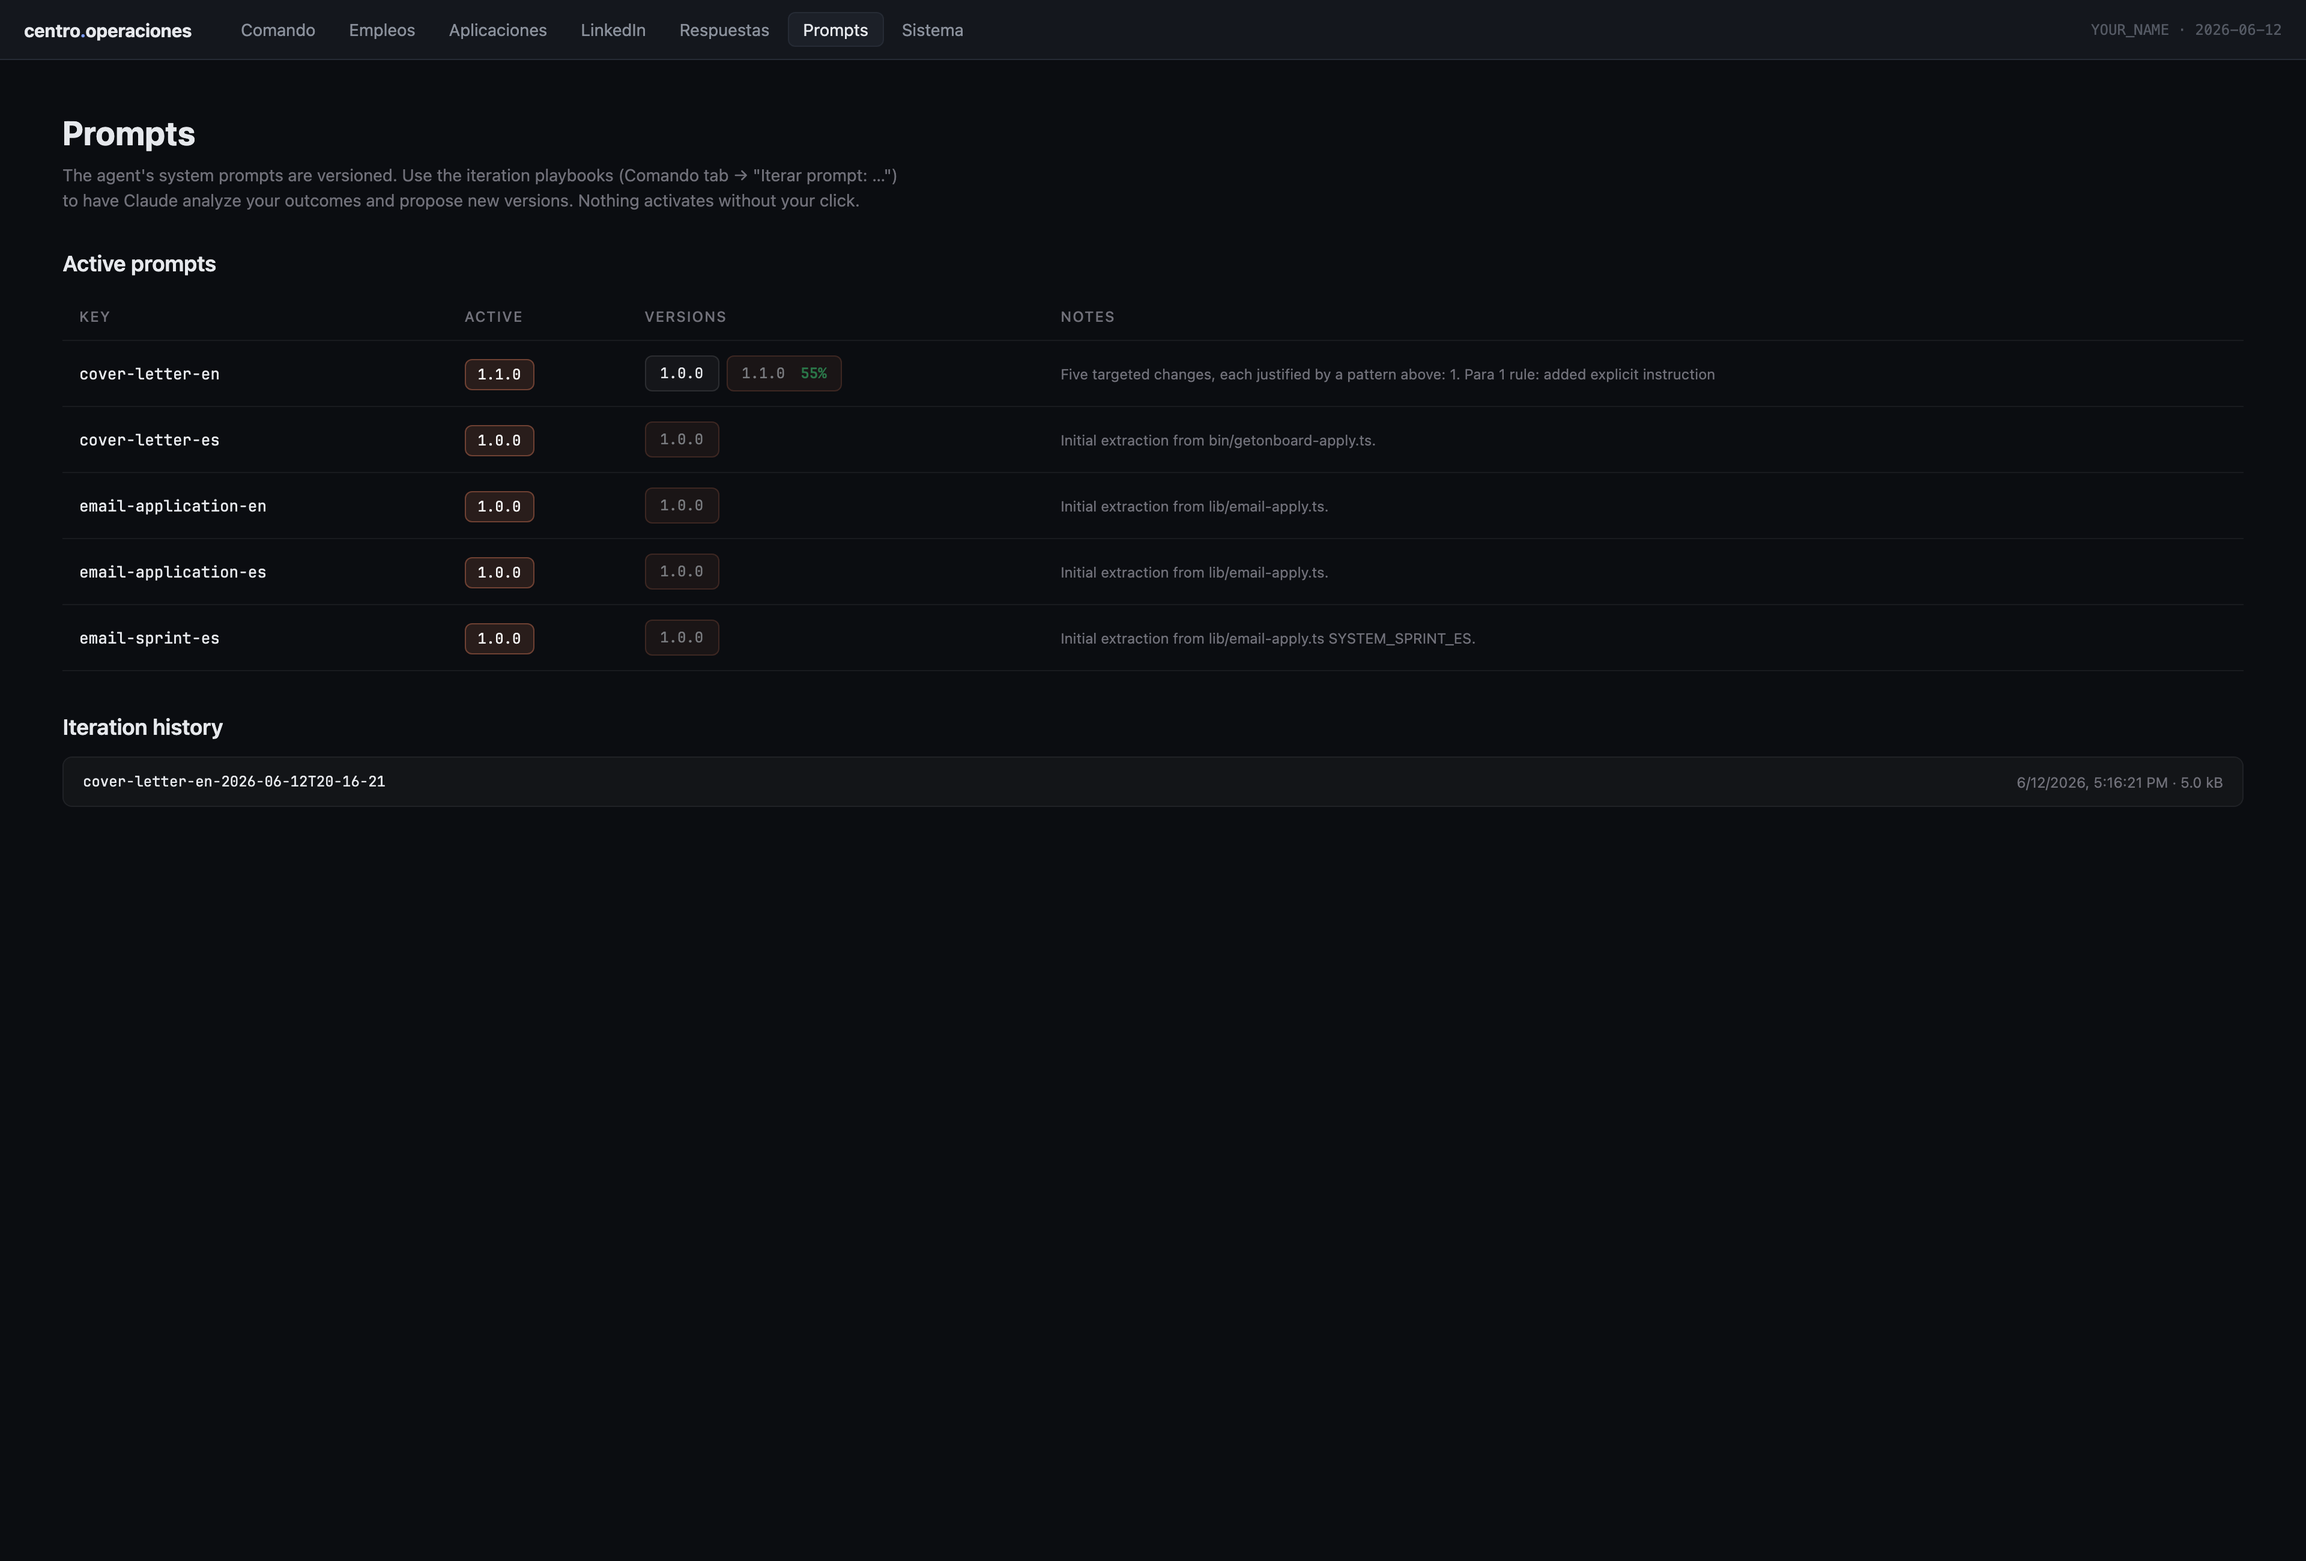
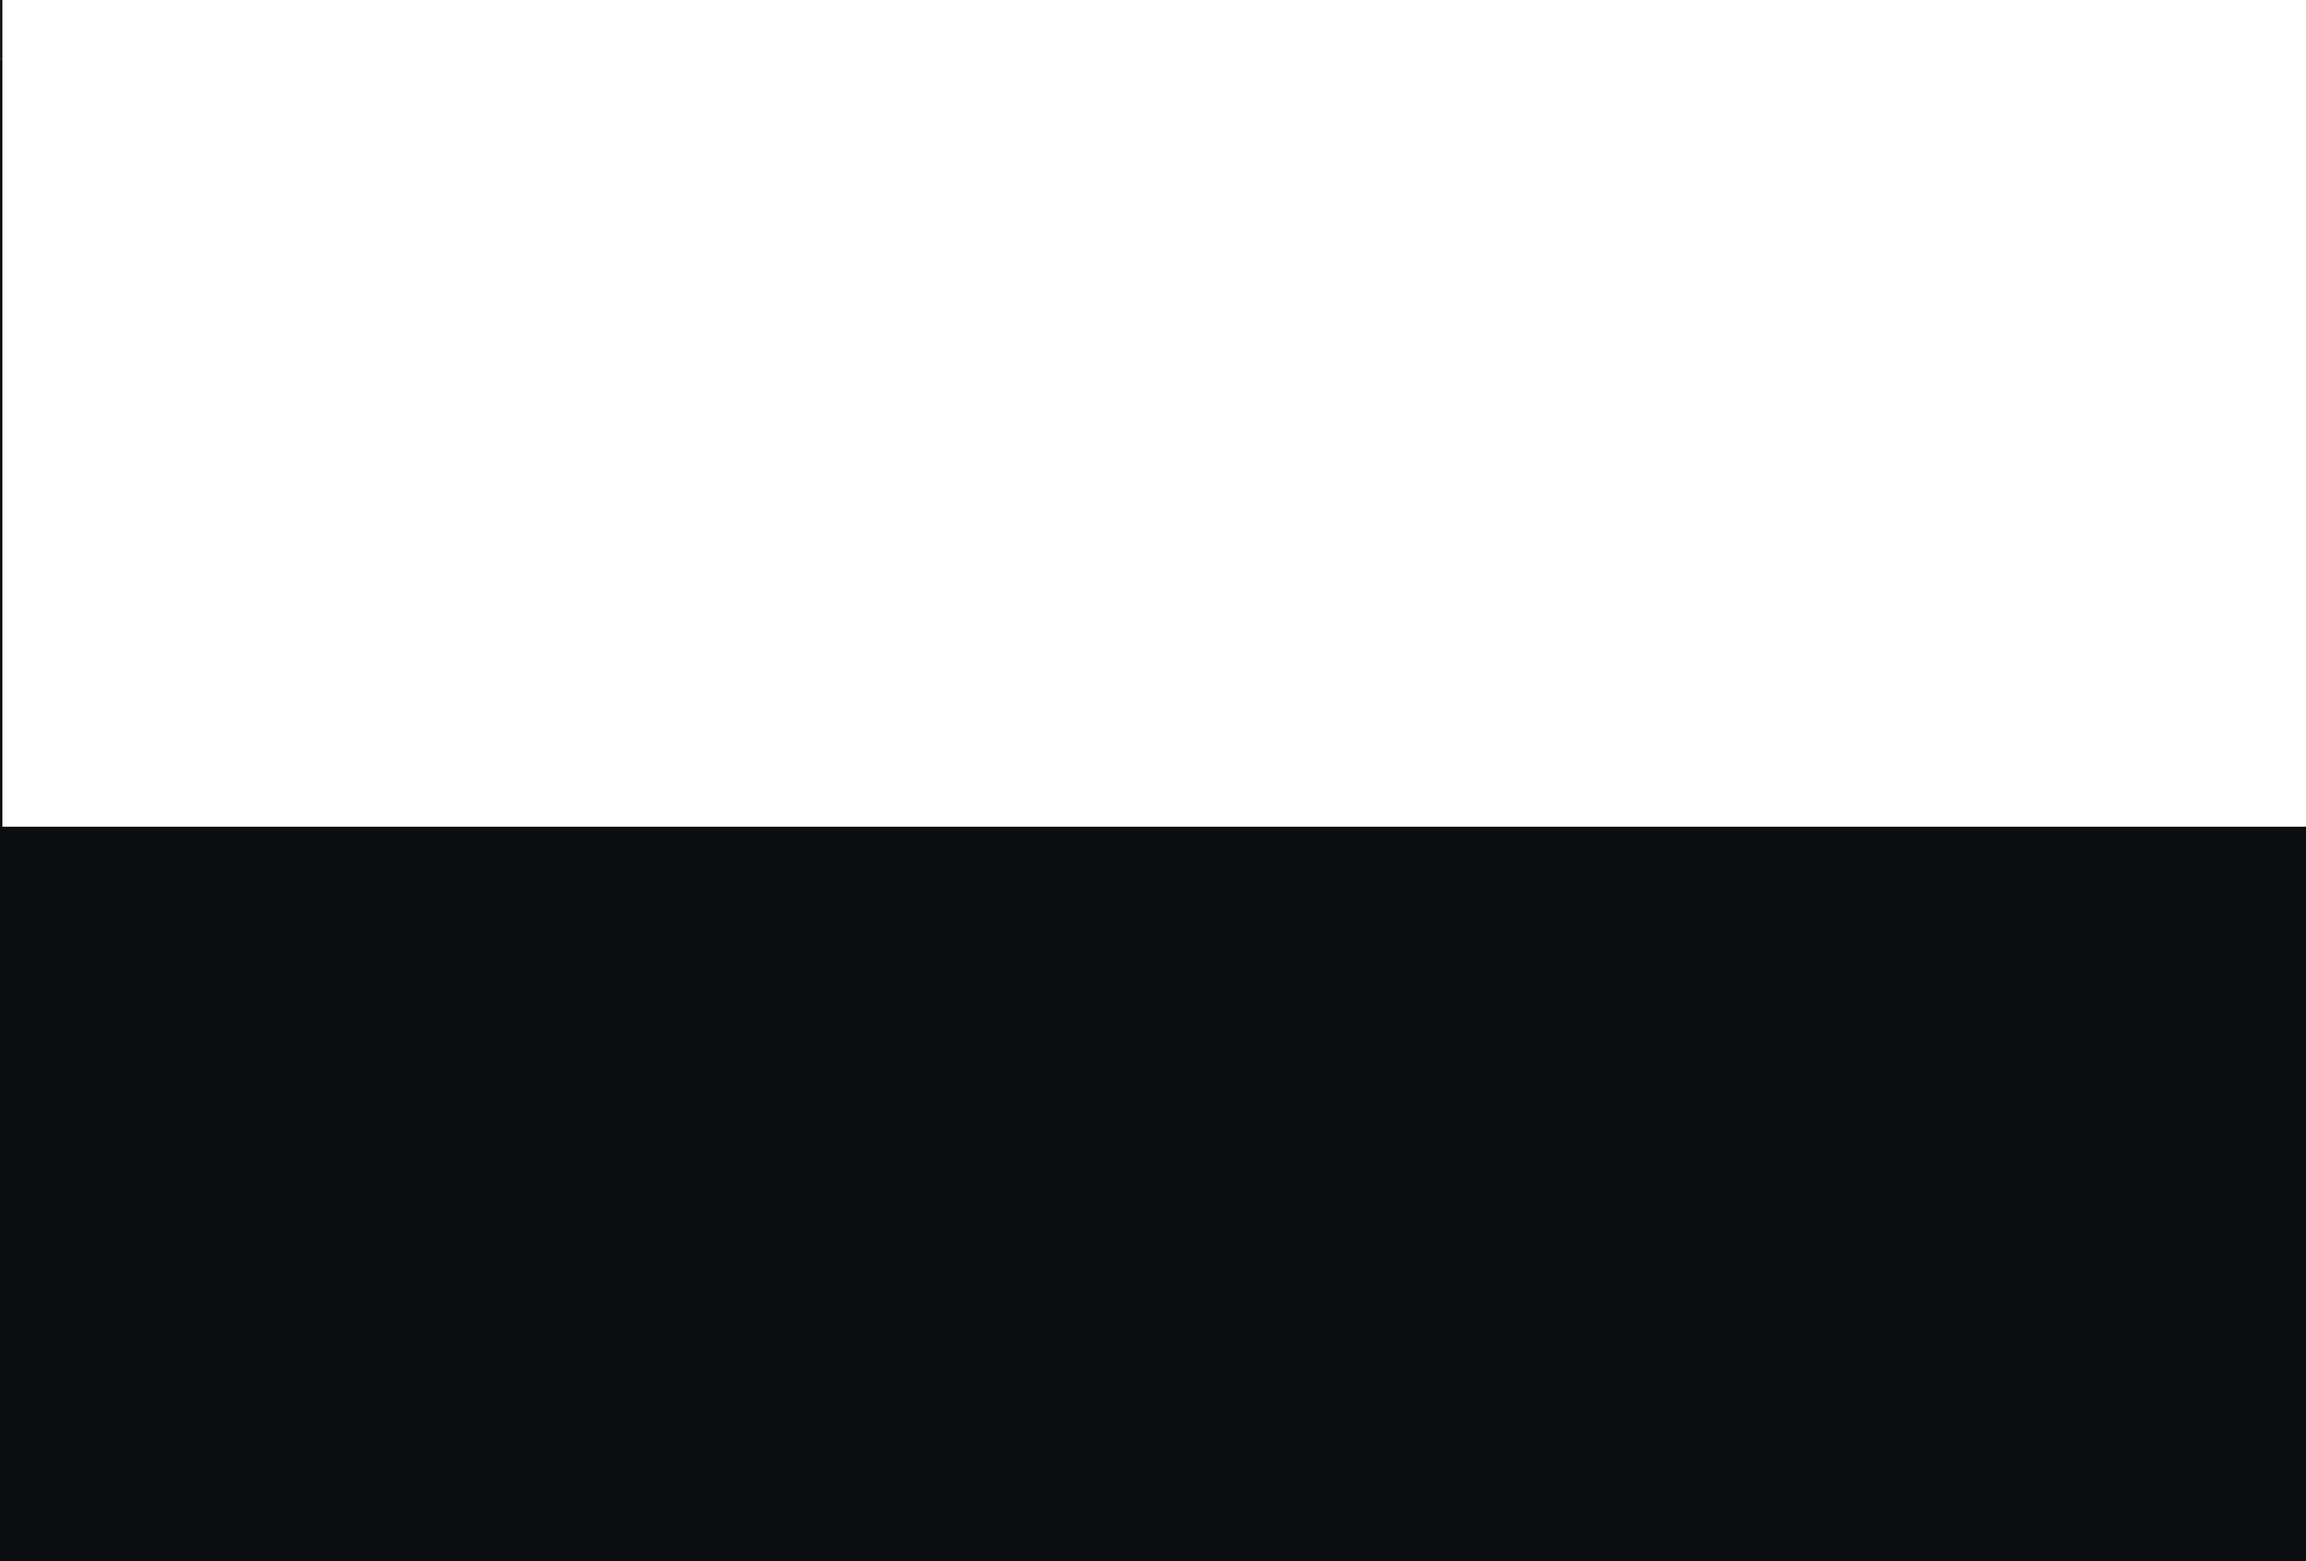
fix: actually load .env + correct answers.json path + cleanup env.example
Three bugs that would bite anyone cloning the repo:

1. .env was never loaded — process.env.CLAUDE_BIN etc would always be
   undefined unless exported by the shell. Added lib/env.ts as a side-effect
   import in lib/claude.ts + lib/captcha.ts. No external deps.

2. loadAnswers() defaulted to 'profiles/answers.json' which no longer
   exists after sanitization. Now resolves to data/answers.json relative
   to the project root (works regardless of process.cwd, including Vite
   plugin host). Helpful error message if missing.

3. .env.example had four vars (SENDER_NAME, SENDER_EMAIL, RESUME_PATH,
   PORTFOLIO_URL) that nothing reads. Removed them and pointed at
   data/answers.json + MASTER.md where they actually belong.

diff --git a/lib/env.ts b/lib/env.ts
@@ -1,0 +1,36 @@
+// Loads .env into process.env if the file exists. No external deps.
+// Imported as a side-effect at the top of any module that reads process.env
+// (lib/claude.ts, lib/captcha.ts).
+//
+// Semantics: existing process.env vars win over .env values (matches dotenv
+// default behavior). Lines starting with # are comments. Quoted values get
+// the surrounding quotes stripped.
+
+import { existsSync, readFileSync } from "node:fs";
+import { join, dirname } from "node:path";
+import { fileURLToPath } from "node:url";
+
+const PROJECT_ROOT = join(dirname(fileURLToPath(import.meta.url)), "..");
+const ENV_PATH = join(PROJECT_ROOT, ".env");
+
+if (existsSync(ENV_PATH)) {
+  const content = readFileSync(ENV_PATH, "utf8");
+  for (const line of content.split("\n")) {
+    const trimmed = line.trim();
+    if (!trimmed || trimmed.startsWith("#")) continue;
+    const eq = trimmed.indexOf("=");
+    if (eq < 0) continue;
+    const key = trimmed.slice(0, eq).trim();
+    let val = trimmed.slice(eq + 1).trim();
+    if (
+      (val.startsWith('"') && val.endsWith('"')) ||
+      (val.startsWith("'") && val.endsWith("'"))
+    ) {
+      val = val.slice(1, -1);
+    }
+    // Don't clobber values already exported by the shell.
+    if (!(key in process.env)) {
+      process.env[key] = val;
+    }
+  }
+}

diff --git a/lib/auto-apply.ts b/lib/auto-apply.ts
@@ -1,4 +1,6 @@
 import { readFileSync, existsSync } from "node:fs";
+import { join, dirname } from "node:path";
+import { fileURLToPath } from "node:url";
 import type { Page, ElementHandle } from "playwright";
 import { callText, DRAFT_MODEL } from "./claude.ts";
 
@@ -98,7 +100,20 @@ async function waitForFormField(page: Page, timeout = 6000): Promise<boolean> {
   }
 }
 
-export function loadAnswers(path = "profiles/answers.json"): Answers {
+export function loadAnswers(path?: string): Answers {
+  // Resolve relative paths from the project root so this works regardless of
+  // process.cwd() (Vite plugin host has cwd=web/).
+  if (!path) {
+    const here = fileURLToPath(import.meta.url);
+    const projectRoot = join(dirname(here), "..");
+    // Prefer data/answers.json (current convention); fall back to legacy
+    // profiles/answers.json if someone still keeps it there.
+    const dataPath = join(projectRoot, "data", "answers.json");
+    const legacyPath = join(projectRoot, "profiles", "answers.json");
+    if (existsSync(dataPath)) path = dataPath;
+    else if (existsSync(legacyPath)) path = legacyPath;
+    else throw new Error("answers.json not found. Run: cp data/answers.example.json data/answers.json");
+  }
   return JSON.parse(readFileSync(path, "utf8"));
 }
 

diff --git a/lib/captcha.ts b/lib/captcha.ts
@@ -1,3 +1,4 @@
+import "./env.ts"; // side-effect: load .env into process.env
 import type { Page } from "playwright";
 
 // 2captcha solver. Opt-in via TWO_CAPTCHA_API_KEY env var.

diff --git a/lib/claude.ts b/lib/claude.ts
@@ -1,3 +1,4 @@
+import "./env.ts"; // side-effect: load .env into process.env
 import { spawn } from "node:child_process";
 import { tmpdir } from "node:os";
 

diff --git a/README.md b/README.md
@@ -60,7 +60,7 @@ npm install
 cd web && npm install && cd ..
 
 # Configure (three files — that's it)
-cp .env.example .env             # CLAUDE_BIN + your name/email
+cp .env.example .env             # optional — CLAUDE_BIN if not in PATH
 cp MASTER.example.md MASTER.md   # YOUR projects + metrics (this is the file)
 cp data/answers.example.json data/answers.json
 
